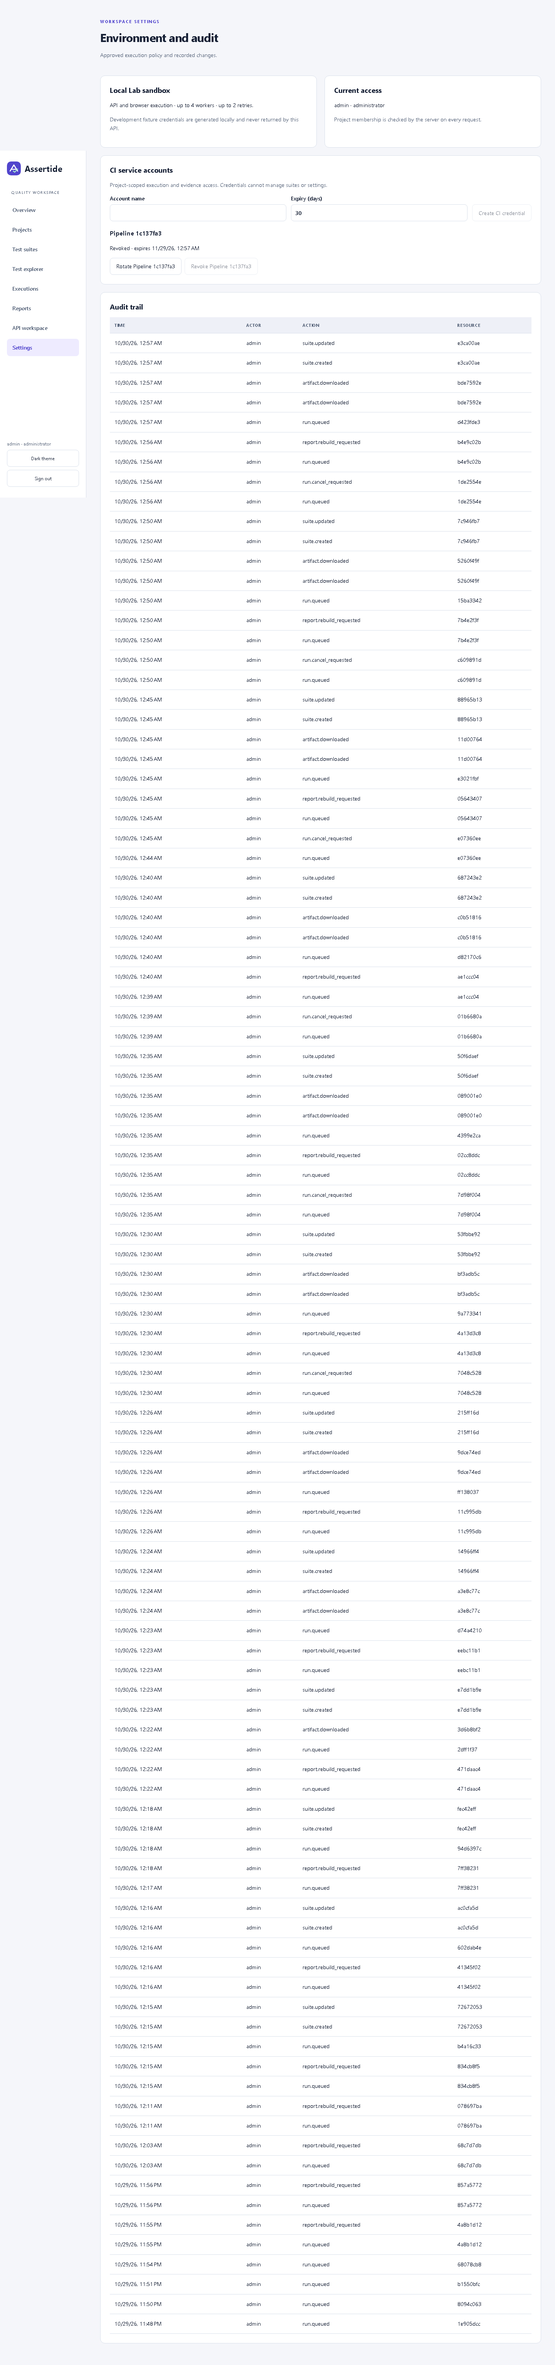
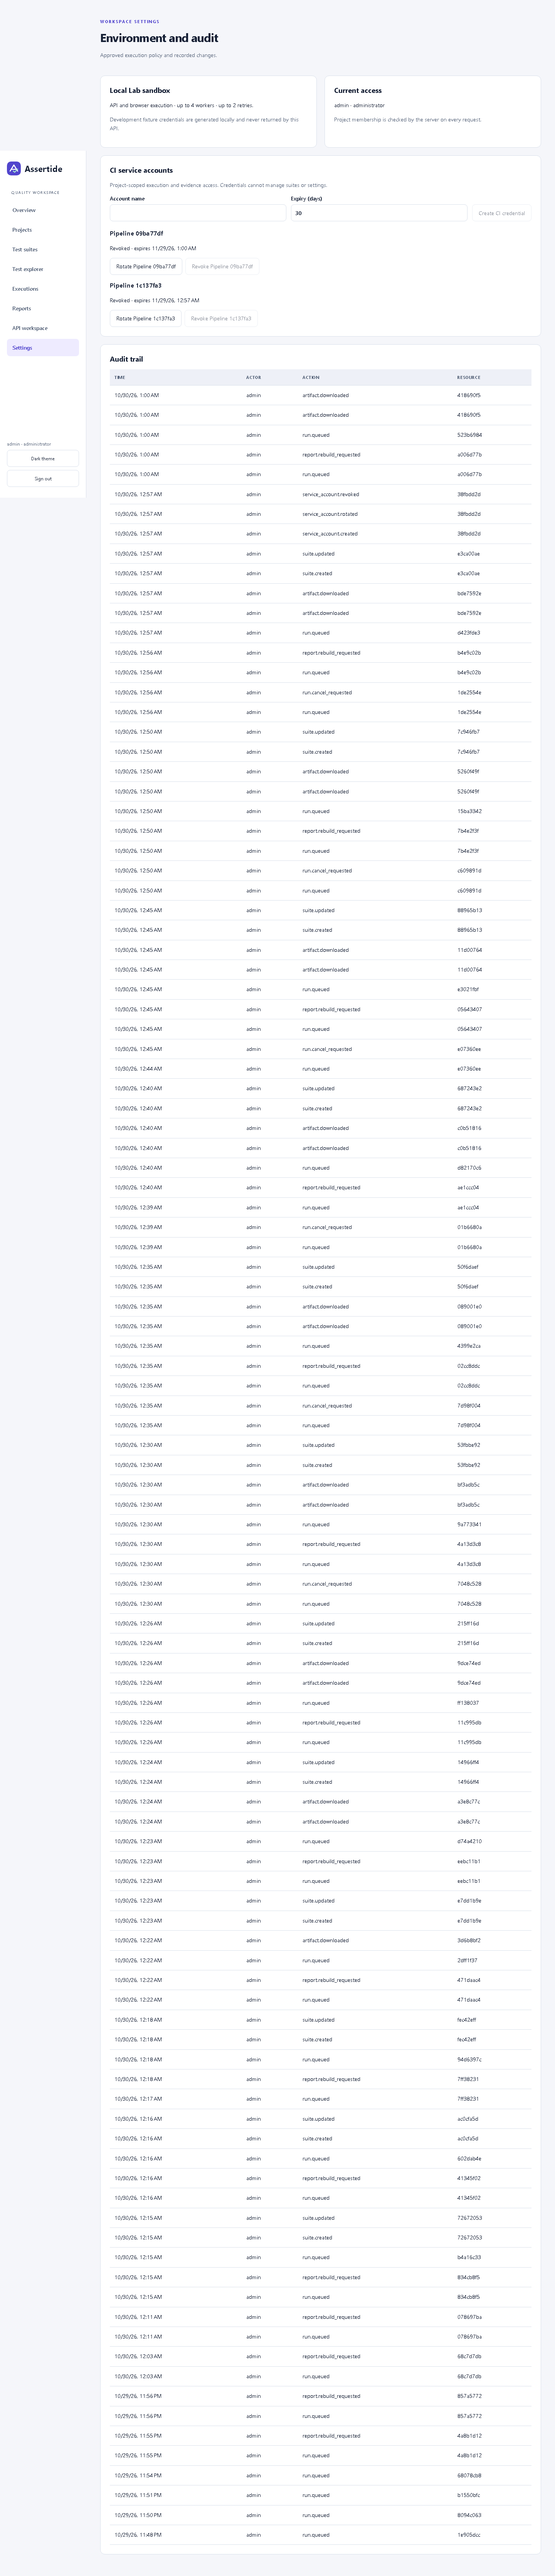
fix(access): bind private reports to live credentials and immutable builds

diff --git a/apps/api/src/report-viewer.ts b/apps/api/src/report-viewer.ts
@@ -23,6 +23,9 @@ export async function mountReportViewer(
   await db.query(
     "CREATE TABLE IF NOT EXISTS report_tickets (digest text PRIMARY KEY, run_id text NOT NULL, subject text NOT NULL, expires_at timestamptz NOT NULL, redeemed boolean NOT NULL DEFAULT false)",
   );
+  await db.query(
+    "ALTER TABLE report_tickets ADD COLUMN IF NOT EXISTS auth_digest text, ADD COLUMN IF NOT EXISTS auth_kind text, ADD COLUMN IF NOT EXISTS report_directory text",
+  );
   app.get("/v1/runs/:id/report", async (req, res) => {
     try {
       const principal = await identity.principal(req);
@@ -37,9 +40,21 @@ export async function mountReportViewer(
         return;
       }
       const token = randomBytes(32).toString("hex");
+      const binding = identity.credential(req);
+      if (!binding) {
+        res.status(401).end();
+        return;
+      }
       await db.query(
-        "INSERT INTO report_tickets(digest,run_id,subject,expires_at) VALUES($1,$2,$3,now()+interval '60 seconds')",
-        [digest(token), id, principal.subject],
+        "INSERT INTO report_tickets(digest,run_id,subject,expires_at,auth_digest,auth_kind,report_directory) VALUES($1,$2,$3,now()+interval '60 seconds',$4,$5,$6)",
+        [
+          digest(token),
+          id,
+          principal.subject,
+          binding.digest,
+          binding.kind,
+          run["reportDirectory"],
+        ],
       );
       res
         .set("Cache-Control", "no-store")
@@ -93,19 +108,31 @@ export async function mountReportViewer(
       return;
     }
     const row = (
-      await db.query<{ body: unknown }>(
-        `SELECT m.body FROM report_tickets t JOIN memberships m ON m.subject=t.subject
+      await db.query<{
+        auth_digest: string | null;
+        auth_kind: string | null;
+        report_directory: string | null;
+      }>(
+        `SELECT t.auth_digest,t.auth_kind,t.report_directory FROM report_tickets t
       WHERE t.digest=$1 AND t.run_id=$2 AND t.redeemed AND t.expires_at>now()`,
         [digest(token), id],
       )
     ).rows[0];
-    if (!row) {
+    if (
+      !row?.auth_digest ||
+      !["session", "service"].includes(row.auth_kind ?? "")
+    ) {
       res.status(403).end();
       return;
     }
-    const membership = z
-      .object({ projectIds: z.array(z.string()), organizationId: z.string() })
-      .parse(row.body);
+    const membership = await identity.resolveCredential({
+      digest: row.auth_digest,
+      kind: row.auth_kind as "session" | "service",
+    });
+    if (!membership) {
+      res.status(403).end();
+      return;
+    }
     const run = (
       await db.query<{
         project_id: string;
@@ -124,7 +151,7 @@ export async function mountReportViewer(
       res.status(403).end();
       return;
     }
-    const directory = run.directory ?? "report";
+    const directory = row.report_directory ?? "";
     if (!/^report(?:-[a-f0-9-]{36})?$/.test(directory)) {
       res.status(404).end();
       return;

diff --git a/apps/api/src/identity.ts b/apps/api/src/identity.ts
@@ -57,9 +57,25 @@ export class IdentityService {
     );
   }
   async principal(req: Request): Promise<Principal | null> {
+    const binding = this.credential(req);
+    return binding ? this.resolveCredential(binding) : null;
+  }
+  credential(
+    req: Request,
+  ): { kind: "session" | "service"; digest: string } | null {
     const authorization = req.get("Authorization");
     if (authorization) {
       if (!authorization.startsWith("Bearer ")) return null;
+      return { kind: "service", digest: hash(authorization.slice(7)) };
+    }
+    const token = cookie(req, "assertide_session");
+    return token ? { kind: "session", digest: hash(token) } : null;
+  }
+  async resolveCredential(binding: {
+    kind: "session" | "service";
+    digest: string;
+  }): Promise<Principal | null> {
+    if (binding.kind === "service") {
       const account = (
         await this.db.query<{
           id: string;
@@ -68,7 +84,7 @@ export class IdentityService {
           name: string;
         }>(
           "SELECT id,organization_id,project_id,name FROM service_accounts WHERE digest=$1 AND NOT revoked AND expires_at>now()",
-          [hash(authorization.slice(7))],
+          [binding.digest],
         )
       ).rows[0];
       return account
@@ -82,12 +98,10 @@ export class IdentityService {
           }
         : null;
     }
-    const token = cookie(req, "assertide_session");
-    if (!token) return null;
     const row = (
       await this.db.query<JsonRow>(
         "SELECT m.body FROM sessions s JOIN memberships m ON m.subject=s.subject WHERE s.digest=$1 AND s.expires_at>now()",
-        [hash(token)],
+        [binding.digest],
       )
     ).rows[0];
     return row ? principalSchema.parse(row.body) : null;

diff --git a/packages/automation/platform/login.spec.ts b/packages/automation/platform/login.spec.ts
@@ -172,5 +172,11 @@ test("SSO authenticates and opens the real catalog", async ({ page }) => {
     path: "../../docs/changelog/assets/unreleased/api-evidence-mobile.png",
     fullPage: true,
   });
+  await page.setViewportSize({ width: 1440, height: 900 });
+  await page.getByRole("button", { name: "Sign out", exact: true }).click();
+  await expect(
+    page.getByRole("link", { name: "Continue with SSO" }),
+  ).toBeVisible();
+  expect((await report.request.get(report.url())).status()).toBe(403);
   expect(errors).toEqual([]);
 });

diff --git a/CHANGELOG.md b/CHANGELOG.md
@@ -31,6 +31,7 @@ Noteworthy completed changes are recorded here. Entries under Unreleased have no
 
 ### Fixed
 
+- Private report tickets now remain bound to the exact report build and issuing login session or CI credential. Logout, session expiry and credential rotation/revocation invalidate subsequent report asset requests. The browser journey verifies denial after logout.
 - Cancellation now stops the owned worker process tree and retains completed attempts from durable checkpoints. Missing browser instances are reconciled individually, queued cancellations retain explicit canceled outcomes, and concurrent progress updates no longer discard a cancellation request. The Windows browser cancellation test and database checks pass.
 
 ### Design preview visuals
